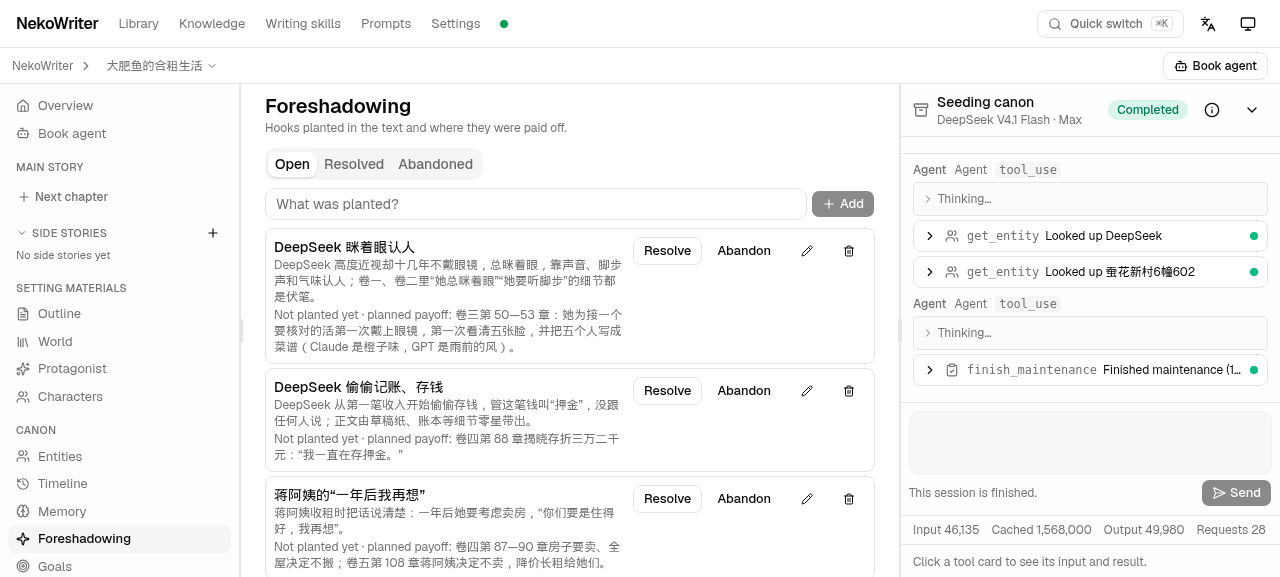
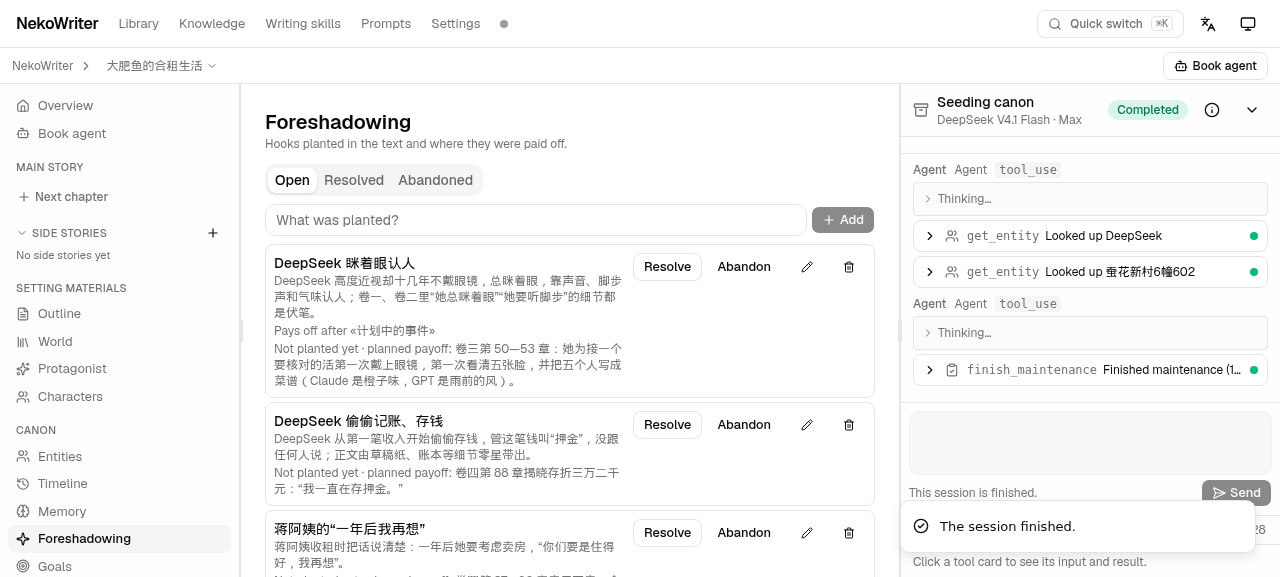
docs: record the exercised timeline promotion, abandonment and anchor in the merged smoke
The merged UI smoke now covers a planned-to-occurred promotion, an abandoned planned node and a saved foreshadowing anchor rendering after its event; note that Demo outline seeding was not exercised.

Changed region(s): [[0.1875, 0.156, 0.6875, 1.0], [0.7188, 0.8423, 0.9688, 0.9671]]

diff --git a/docs/DECISIONS.md b/docs/DECISIONS.md
@@ -4075,10 +4075,12 @@ as before. The Demo provider now exercises the path spec/04 §7.2 describes, and
     book #1's conception materials and session #4 stayed unchanged. The 3 old timeline rows became
     `entry`/`occurred` under one contentless root, and all 12 foreshadowing rows kept their
     `planned_payoff` text with `payoff_event_id`/`payoff_position` NULL. `foreign_key_check` was
-    empty and `0001_init.sql` remained byte-identical. The UI smoke saw the merged tree, row menu,
-    sub-entry creation through three levels, the anchor picker, and the book-agent panel; the
-    Demo arm did not exercise planned-outline seeding, promotion, abandonment or a saved anchor,
-    so those remain covered by the server tests rather than this UI run.
+    empty and `0001_init.sql` remained byte-identical. The UI smoke saw the merged tree and row
+    menu, created sub-entries through three levels, created and promoted a planned node, saw a
+    second planned node greyed as abandoned, and saved an anchor that rendered as
+    "Pays off after «计划中的事件»" with no chapter number. The Demo provider itself did not seed
+    planned nodes from an outline in this run; that seeding path remains covered by the server
+    tests, while the root/reparent smoke above exercised the migrated data.
 - **Spec**:
   - PROJECT §4, §6.7, §6.16, F7, §8.8, §9.2, §10 (#35), §11;
   - spec/02 §1, §2, §3, §4, §5;
